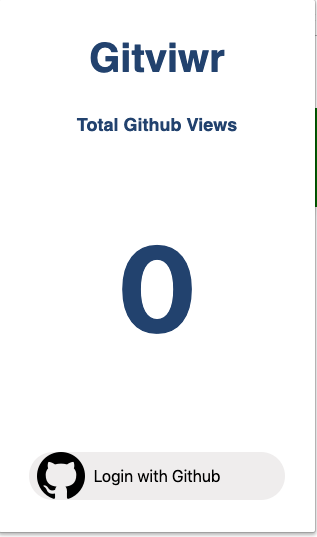
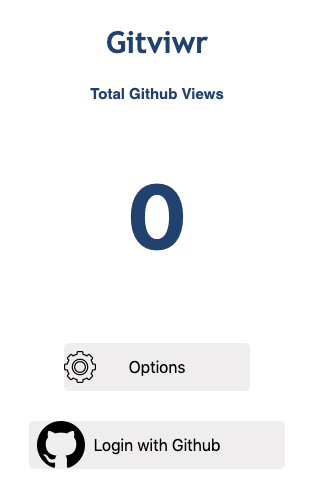
[Update] ready for production

diff --git a/popup.html b/popup.html
@@ -10,13 +10,13 @@
     }
 
     #title{
-      font-size: 40px;
-      font-family: sans-serif;
+      font-size: 30px;
+      font-family: 'Trebuchet MS', Arial, sans-serif;
       text-align: center;
     }
 
     #sub-title{
-      font-size: 18px;
+      font-size: 15px;
       font-family: sans-serif;
       text-align: center;
     }
@@ -27,7 +27,14 @@
       text-align: center;
     }
 
-    #button-form{
+    #login-button-form{
+      width: 100%;
+      display: flex;
+      align-items: center;
+      justify-content: center;
+    }
+
+    #options-button-form{
       width: 100%;
       display: flex;
       align-items: center;
@@ -44,15 +51,31 @@
       text-decoration: none;
       display: inline-block;
       font-size: 16px;
-      border-radius: 25px;
+      border-radius: 5px;
       margin-bottom: 30px;
       background-image:url('/assets/oktocat.png');
       background-repeat:no-repeat;
       background-position: left;
     }
 
+    #options-button{
+      background-color: #efeded;
+      border: none;
+      color: black;
+      padding: 15px 65px;
+      text-align: right;
+      text-decoration: none;
+      display: inline-block;
+      font-size: 16px;
+      border-radius: 5px;
+      margin-bottom: 30px;
+      background-image:url('/assets/options.png');
+      background-repeat:no-repeat;
+      background-position: left;
+    }
+
     #view-count{
-      font-size: 120px;
+      font-size: 90px;
       text-align: center;
     }
 
@@ -66,9 +89,14 @@
   <h1 id="view-count">0</h1>
   <br>
 
-  <form action="https://github.com/login/oauth/authorize" id="button-form" method="GET" target="_blank">
+  <form action="https://gitviewerserver.herokuapp.com/logout" id="options-button-form" method="GET" target="_blank">
+    <button type="submit" id="options-button">Options</button>
+  </form>
+
+
+  <form action="https://github.com/login/oauth/authorize" id="login-button-form" method="GET" target="_blank">
     <input type="hidden" name="client_id" value="25bf714a3300aecdbc26">
-    <button type="submit" id="register-button">Login with Github</button>
+    <button name="registerButton" type="submit" id="register-button">Login with Github</button>
   </form>
 
   <script src="/assets/socket.io.js"></script>

diff --git a/socketInteraction.js b/socketInteraction.js
@@ -1,11 +1,19 @@
 
 // Creates a socket connection to gitviwr server
-var socket = io("https://gitviewerserver.herokuapp.com/")
+
+// const socket = io('http://localhost:3000/'); // local server
+const socket = io("https://gitviewerserver.herokuapp.com/")  // production server
 
 const currentViewCount = window.localStorage.getItem("currentViewCount")
+
 // Display the number of views if the server has not updated to a new number 
 if (currentViewCount !== null && currentViewCount !== 'undefined') {
-  document.getElementById('view-count').innerHTML = currentViewCount 
+
+  // Updating the DOM when the user has logged in with Github SDK
+  document.getElementById('view-count').innerHTML = currentViewCount
+  document.getElementById('register-button').innerText = "Logged In"
+  document.getElementById('register-button').style.backgroundImage = "url('/assets/checked.png')"
+  document.forms[1].action = "https://gitviewerserver.herokuapp.com/logout"
 }
 
 /**

diff --git a/content.js b/content.js
@@ -2,7 +2,9 @@
 (function () {
 
   // Creates a socket connection to gitviwr server
-  const socket = io('https://gitviewerserver.herokuapp.com/');
+
+  // const socket = io('http://localhost:3000/'); // local server
+  const socket = io("https://gitviewerserver.herokuapp.com/")  // production server
  
   /**
    * Dynamically grabs the handle from the url
